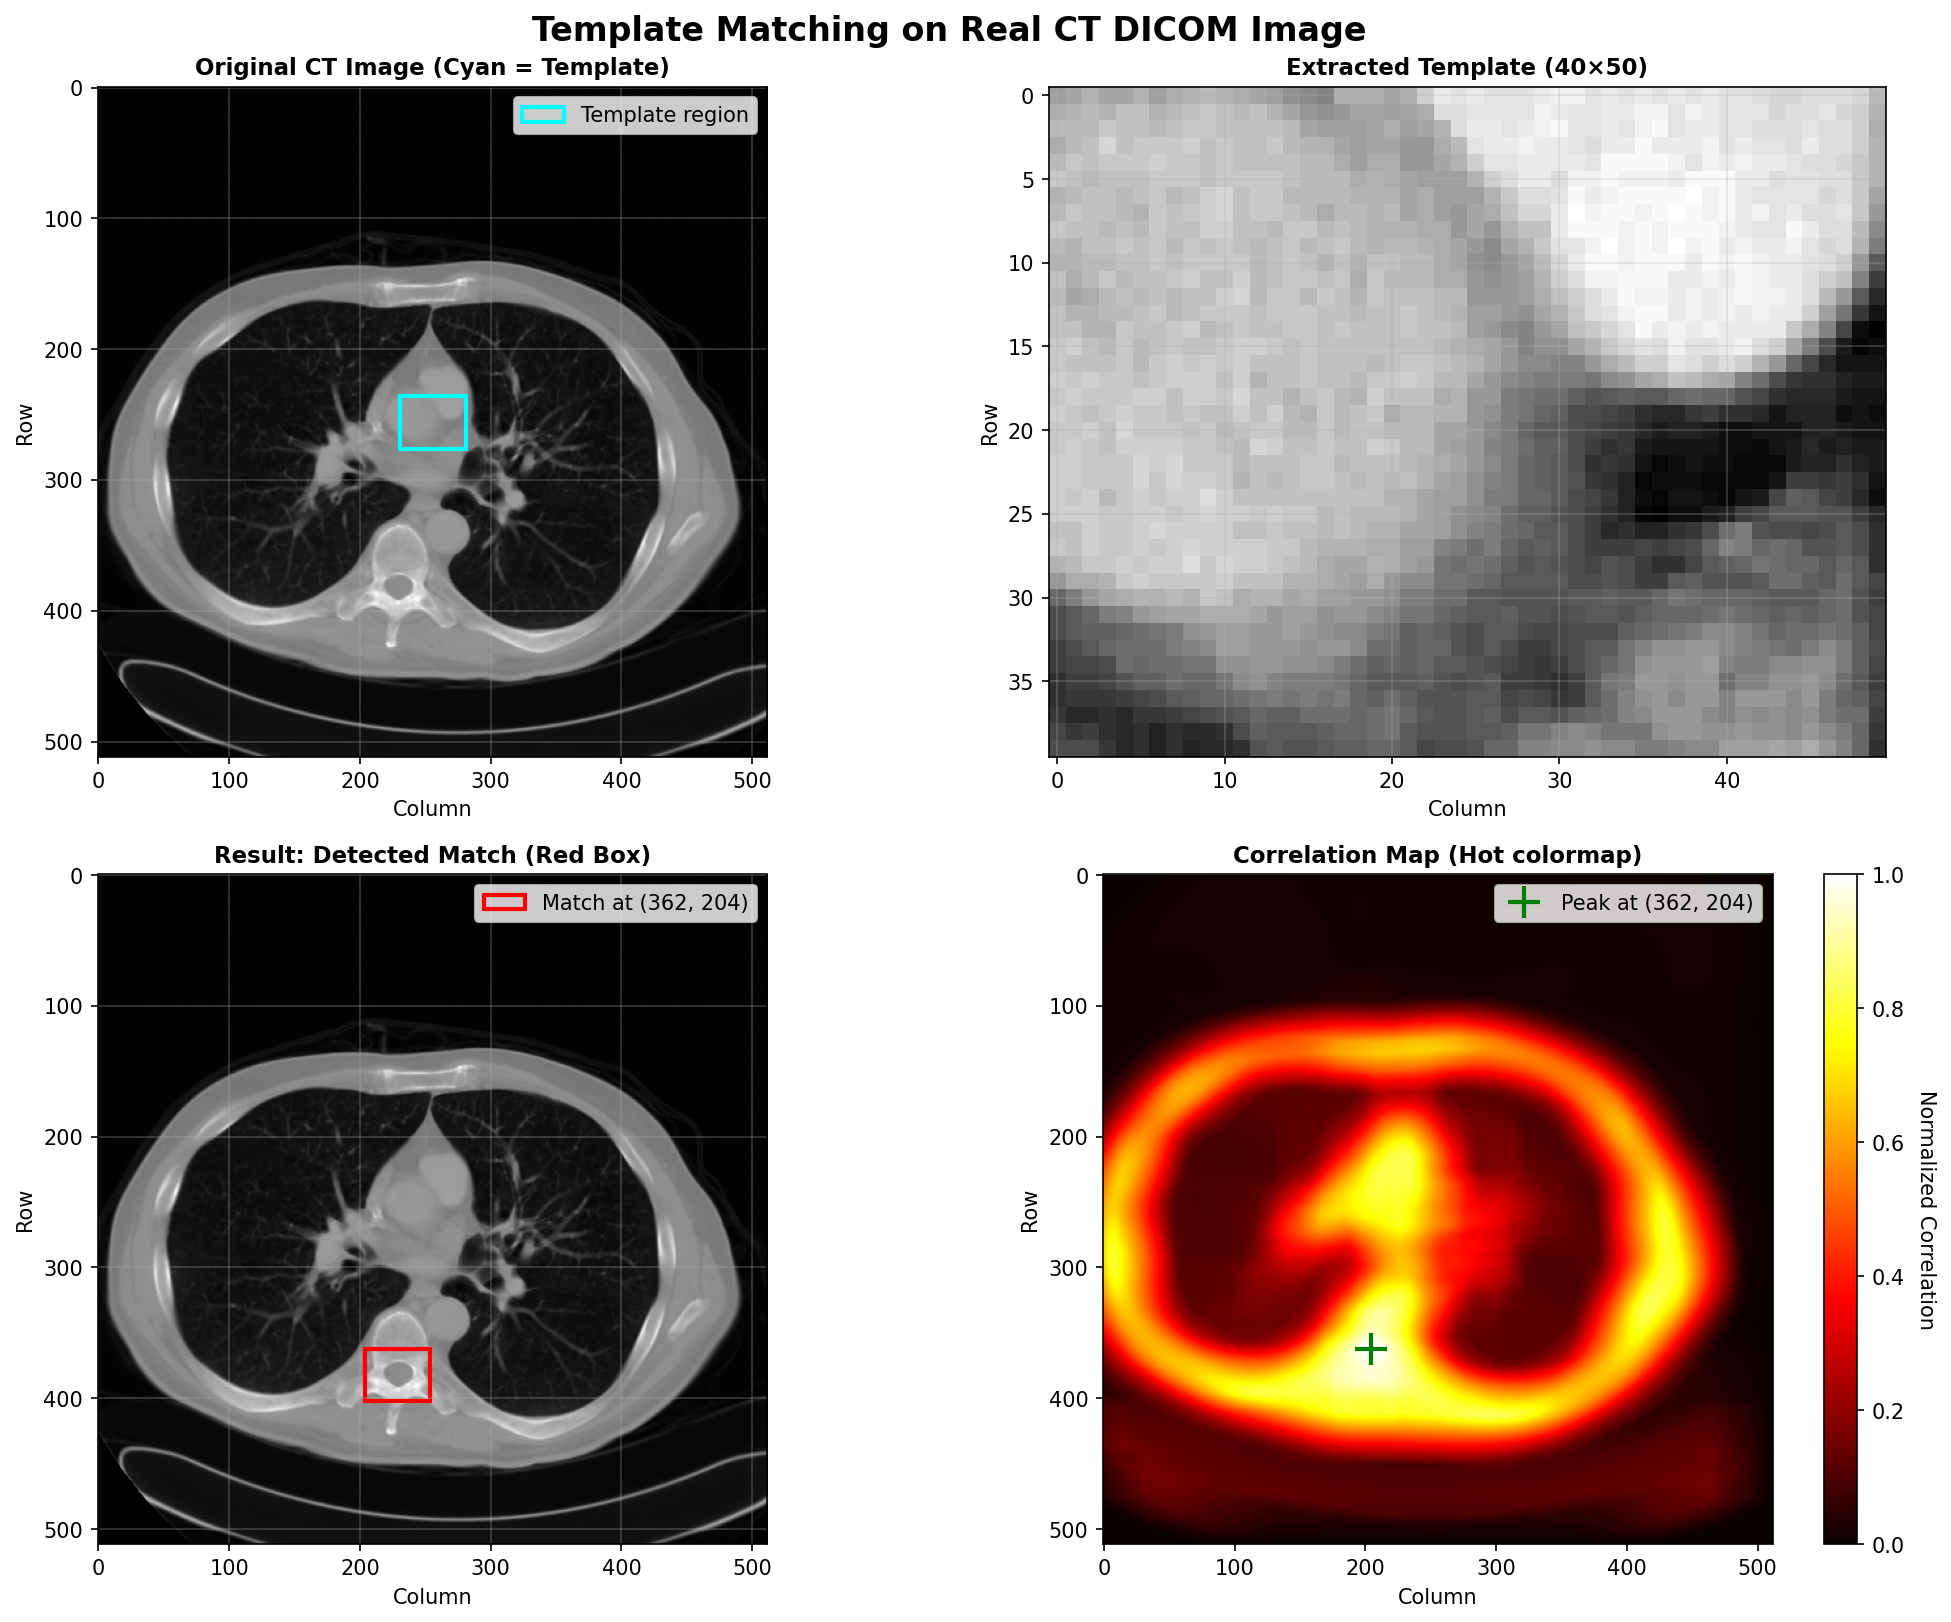
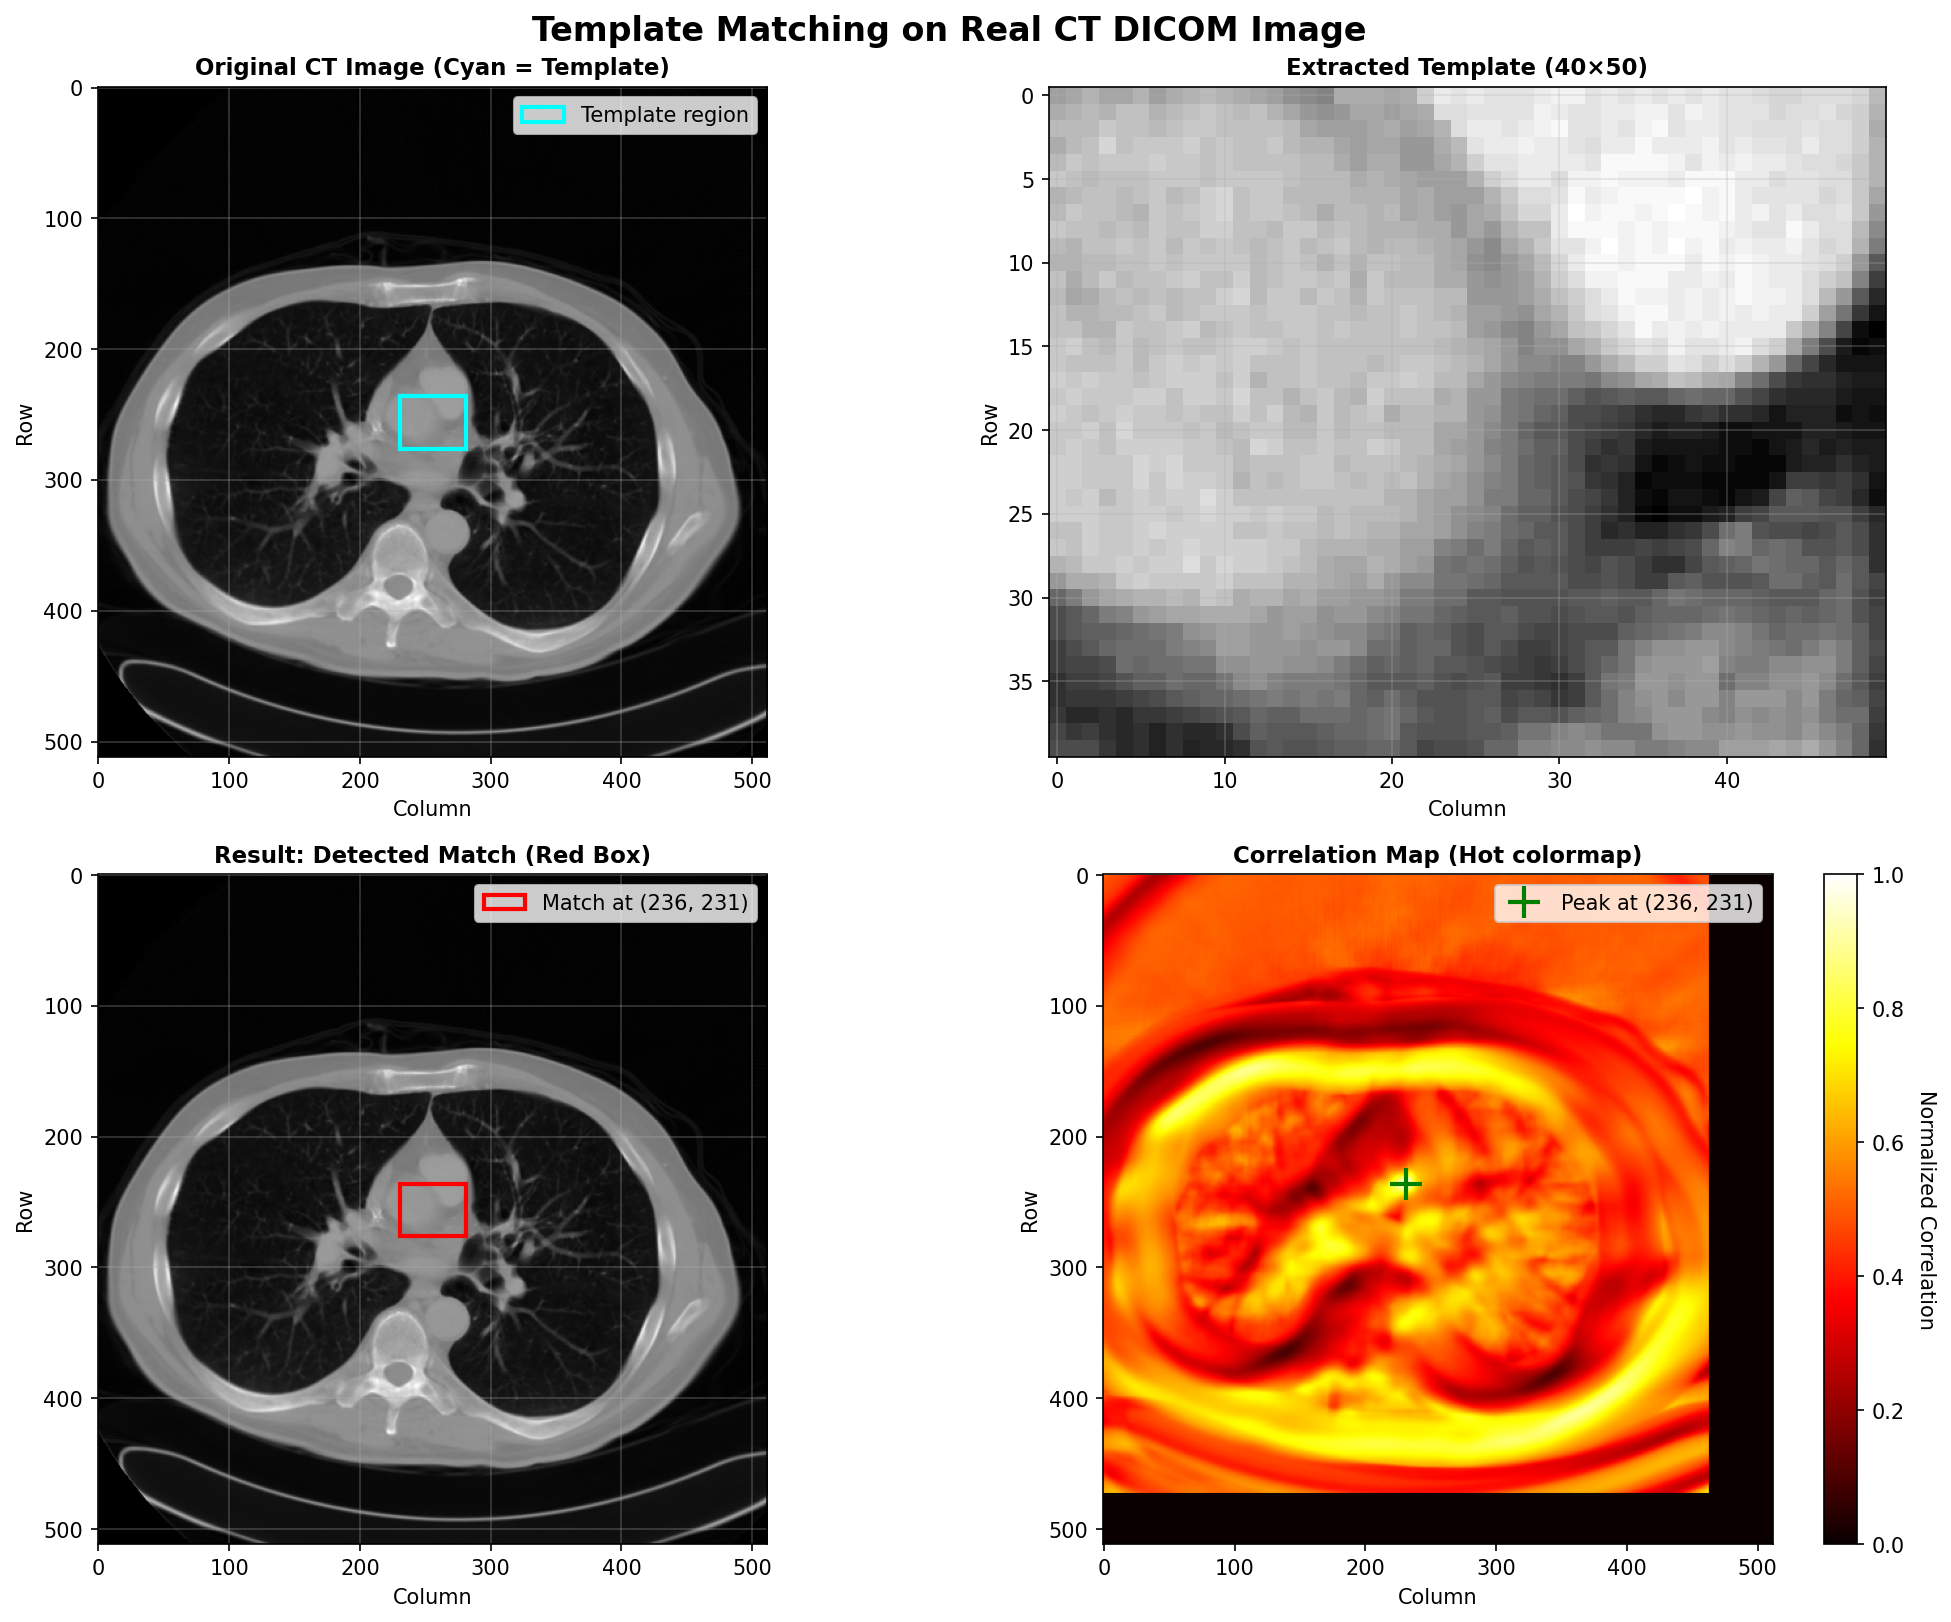
feat(frequency):gui tab added

Changed region(s): [[0.5536, 0.524, 0.9226, 0.9556], [0.2153, 0.7398, 0.246, 0.7707], [0.1845, 0.8323, 0.2153, 0.8631]]

diff --git a/gui/gui.py b/gui/gui.py
@@ -1191,6 +1191,7 @@ class MedicalImageApp:
         right_panel.rowconfigure(1, weight=3)
         right_panel.rowconfigure(3, weight=2)
         right_panel.columnconfigure(0, weight=1)
+        right_panel.columnconfigure(1, weight=0)
 
         ctk.CTkLabel(
             right_panel, text="Step 2 — Match result (bounding box in red)",
@@ -1204,7 +1205,15 @@ class MedicalImageApp:
             right_panel, text="Correlation map (brighter = better match):",
             font=ctk.CTkFont(size=11), text_color="#aaa"
         ).grid(row=2, column=0, sticky="w", padx=8, pady=(4, 0))
-
+        # Toggle: colored heatmap vs grayscale
+        self._tm_color_toggle = ctk.CTkSwitch(
+            right_panel, text="Colored heatmap"
+        )
+        try:
+            self._tm_color_toggle.select()
+        except Exception:
+            pass
+        self._tm_color_toggle.grid(row=2, column=1, sticky="e", padx=(0, 8), pady=(4, 0))
         self._tm_corr_canvas = tk.Canvas(
             right_panel, bg="#1e1e1e", height=110, highlightthickness=1,
             highlightbackground="#555"
@@ -1383,41 +1392,93 @@ class MedicalImageApp:
             out_h = max(1, ih_full - th + 1)
             out_w = max(1, iw_full - tw + 1)
             corr_valid = norm_corr[:out_h, :out_w]
-            corr_display = (corr_valid * 255).astype(np.uint8)
-            corr_out = _tm_draw_on_canvas(corr_canvas, corr_display)
-            if corr_out is not None:
-                _, sc, ocx, ocy = corr_out
-                ccw = corr_canvas.winfo_width()
-                cch = corr_canvas.winfo_height()
-                ch_h, ch_w = corr_display.shape
-                sc2 = min(ccw / ch_w, cch / ch_h)
-                cdw, cdh = int(ch_w * sc2), int(ch_h * sc2)
-                cocx, cocy = (ccw - cdw) // 2, (cch - cdh) // 2
-                pil_c = Image.fromarray(corr_display, mode="L").resize(
-                    (cdw, cdh), Image.LANCZOS
-                )
-                self._tm_photo_corr = ImageTk.PhotoImage(pil_c)
-                corr_canvas.delete("all")
-                corr_canvas.create_image(cocx, cocy, anchor="nw",
-                                         image=self._tm_photo_corr)
-                # Optionally draw peak marker on the displayed valid-region
-                # Map peak (pr,pc) in valid-region to displayed coordinates
-                try:
-                    # pr, pc are integers (row, col) within valid region
-                    disp_x = cocx + int(pc * sc2)
-                    disp_y = cocy + int(pr * sc2)
-                    # draw a small green cross
-                    size = max(3, int(4 * sc2))
-                    corr_canvas.create_line(disp_x - size, disp_y, disp_x + size, disp_y, fill='lime', width=2)
-                    corr_canvas.create_line(disp_x, disp_y - size, disp_x, disp_y + size, fill='lime', width=2)
-                except Exception:
-                    pass
+            # Best (maximum) normalized cross-correlation score in the valid region
+            try:
+                max_score = float(np.max(corr_valid))
+            except Exception:
+                max_score = float('nan')
+            # Create a colored heatmap (RGB) or grayscale depending on toggle.
+            colored = True
+            try:
+                colored = bool(self._tm_color_toggle.get())
+            except Exception:
+                colored = True
 
-            # Update info label
+            # Normalize corr_valid first.
+            minv = float(np.min(corr_valid))
+            maxv = float(np.max(corr_valid))
+            if maxv - minv > 0:
+                norm = (corr_valid - minv) / (maxv - minv)
+            else:
+                norm = np.zeros_like(corr_valid)
+            if colored:
+                # Try matplotlib colormap first; fall back to a simple jet-like numpy map.
+                try:
+                    import matplotlib.cm as cm
+                    cmap = cm.get_cmap('viridis')
+                    rgba = cmap(norm)
+                    rgb = (rgba[..., :3] * 255).astype(np.uint8)
+                except Exception:
+                    v = norm
+                    r = np.clip(1.5 - np.abs(4 * v - 3), 0, 1)
+                    g = np.clip(1.5 - np.abs(4 * v - 2), 0, 1)
+                    b = np.clip(1.5 - np.abs(4 * v - 1), 0, 1)
+                    rgb = np.stack([r, g, b], axis=-1)
+                    rgb = (rgb * 255).astype(np.uint8)
+
+                corr_out = _tm_draw_on_canvas(corr_canvas, rgb)
+                if corr_out is not None:
+                    _, sc, ocx, ocy = corr_out
+                    ccw = corr_canvas.winfo_width()
+                    cch = corr_canvas.winfo_height()
+                    ch_h, ch_w = rgb.shape[:2]
+                    sc2 = min(ccw / ch_w, cch / ch_h)
+                    cdw, cdh = int(ch_w * sc2), int(ch_h * sc2)
+                    cocx, cocy = (ccw - cdw) // 2, (cch - cdh) // 2
+                    pil_c = Image.fromarray(rgb, mode="RGB").resize((cdw, cdh), Image.LANCZOS)
+                    self._tm_photo_corr = ImageTk.PhotoImage(pil_c)
+                    corr_canvas.delete("all")
+                    corr_canvas.create_image(cocx, cocy, anchor="nw", image=self._tm_photo_corr)
+                    # Draw peak marker on the displayed valid-region
+                    try:
+                        disp_x = cocx + int(pc * sc2)
+                        disp_y = cocy + int(pr * sc2)
+                        size = max(3, int(4 * sc2))
+                        corr_canvas.create_line(disp_x - size, disp_y, disp_x + size, disp_y, fill='lime', width=2)
+                        corr_canvas.create_line(disp_x, disp_y - size, disp_x, disp_y + size, fill='lime', width=2)
+                    except Exception:
+                        pass
+            else:
+                corr_display = (norm * 255).astype(np.uint8)
+                corr_out = _tm_draw_on_canvas(corr_canvas, corr_display)
+                if corr_out is not None:
+                    _, sc, ocx, ocy = corr_out
+                    ccw = corr_canvas.winfo_width()
+                    cch = corr_canvas.winfo_height()
+                    ch_h, ch_w = corr_display.shape
+                    sc2 = min(ccw / ch_w, cch / ch_h)
+                    cdw, cdh = int(ch_w * sc2), int(ch_h * sc2)
+                    cocx, cocy = (ccw - cdw) // 2, (cch - cdh) // 2
+                    pil_c = Image.fromarray(corr_display, mode="L").resize((cdw, cdh), Image.LANCZOS)
+                    self._tm_photo_corr = ImageTk.PhotoImage(pil_c)
+                    corr_canvas.delete("all")
+                    corr_canvas.create_image(cocx, cocy, anchor="nw", image=self._tm_photo_corr)
+                    try:
+                        disp_x = cocx + int(pc * sc2)
+                        disp_y = cocy + int(pr * sc2)
+                        size = max(3, int(4 * sc2))
+                        corr_canvas.create_line(disp_x - size, disp_y, disp_x + size, disp_y, fill='lime', width=2)
+                        corr_canvas.create_line(disp_x, disp_y - size, disp_x, disp_y + size, fill='lime', width=2)
+                    except Exception:
+                        pass
+
+            # Update info label (include best NCC score)
+            score_text = f"Best NCC Score: {max_score:.2f}" if not np.isnan(max_score) else "Best NCC Score: N/A"
             self._tm_result_label.configure(
-                text=f"Match found at image row={pr}, col={pc}  |  "
-                     f"Bounding box: top-left=({pc}, {pr}), "
-                     f"bottom-right=({pc + tw}, {pr + th})"
+                text=(f"Match found at image row={pr}, col={pc}  |  "
+                      f"Bounding box: top-left=({pc}, {pr}), "
+                      f"bottom-right=({pc + tw}, {pr + th})  |  "
+                      f"{score_text}")
             )
             self.status_label.configure(text="Template matching complete")
 

diff --git a/processing/frequency/frequency_template_matching.py b/processing/frequency/frequency_template_matching.py
@@ -174,10 +174,11 @@ def fourier_cross_correlate_normalized(image: np.ndarray, template: np.ndarray):
     local_var = np.clip(local_mean_sq - local_mean ** 2, 0.0, None)
     local_std = np.sqrt(local_var)
 
+    # Add a small epsilon to the denominator to avoid numerical instability
     denom = N * local_std
-    safe = denom > 1e-12
-    ncc_valid = np.zeros((out_h, out_w), dtype=np.float64)
-    ncc_valid[safe] = numerator[safe] / denom[safe]
+    eps = 1e-8
+    denom_safe = denom + eps
+    ncc_valid = numerator / denom_safe
     ncc_valid = np.clip(ncc_valid, -1.0, 1.0)
 
     # ── Memory optimization: avoid redundant full-size array ──────────────────